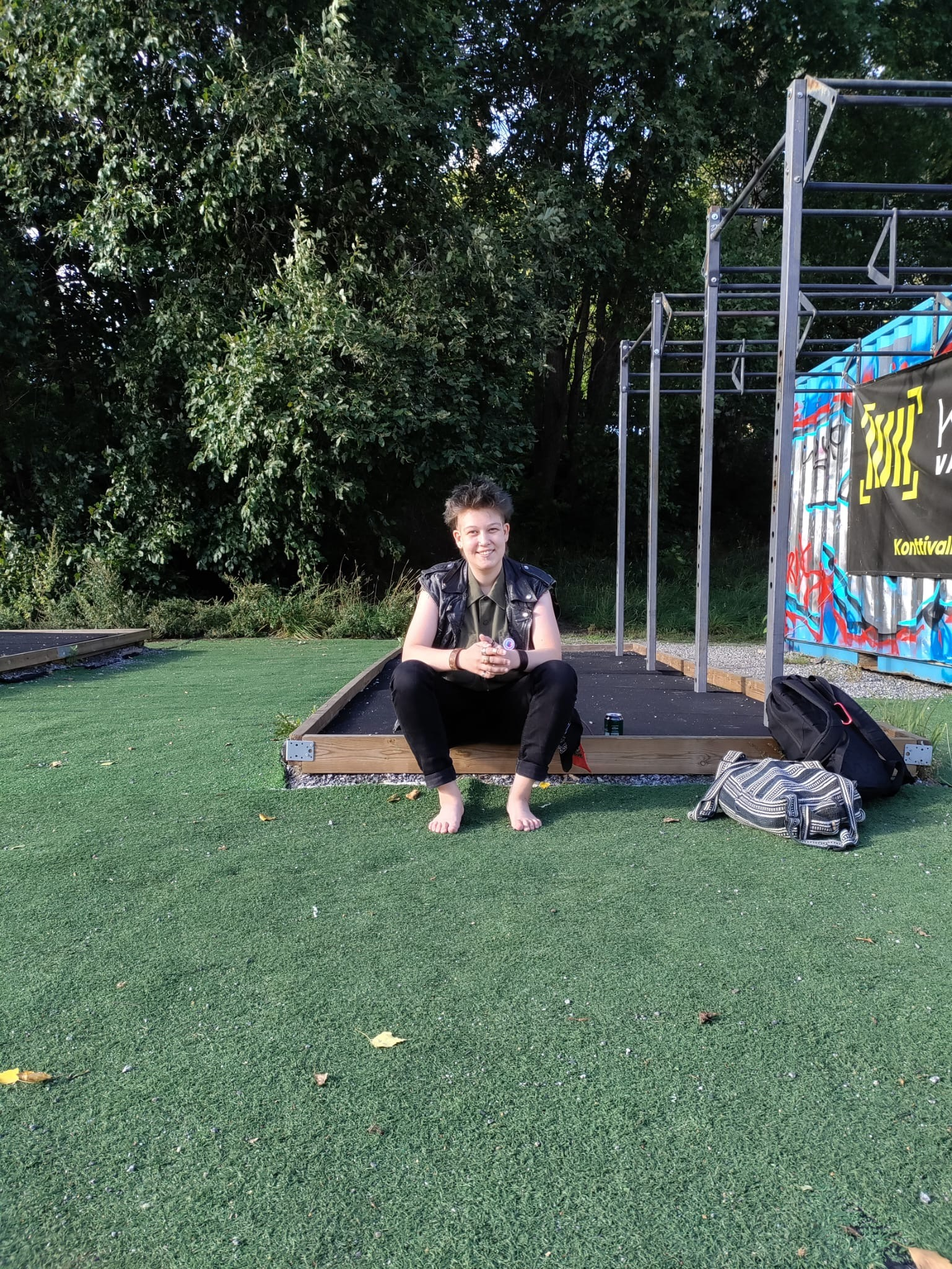
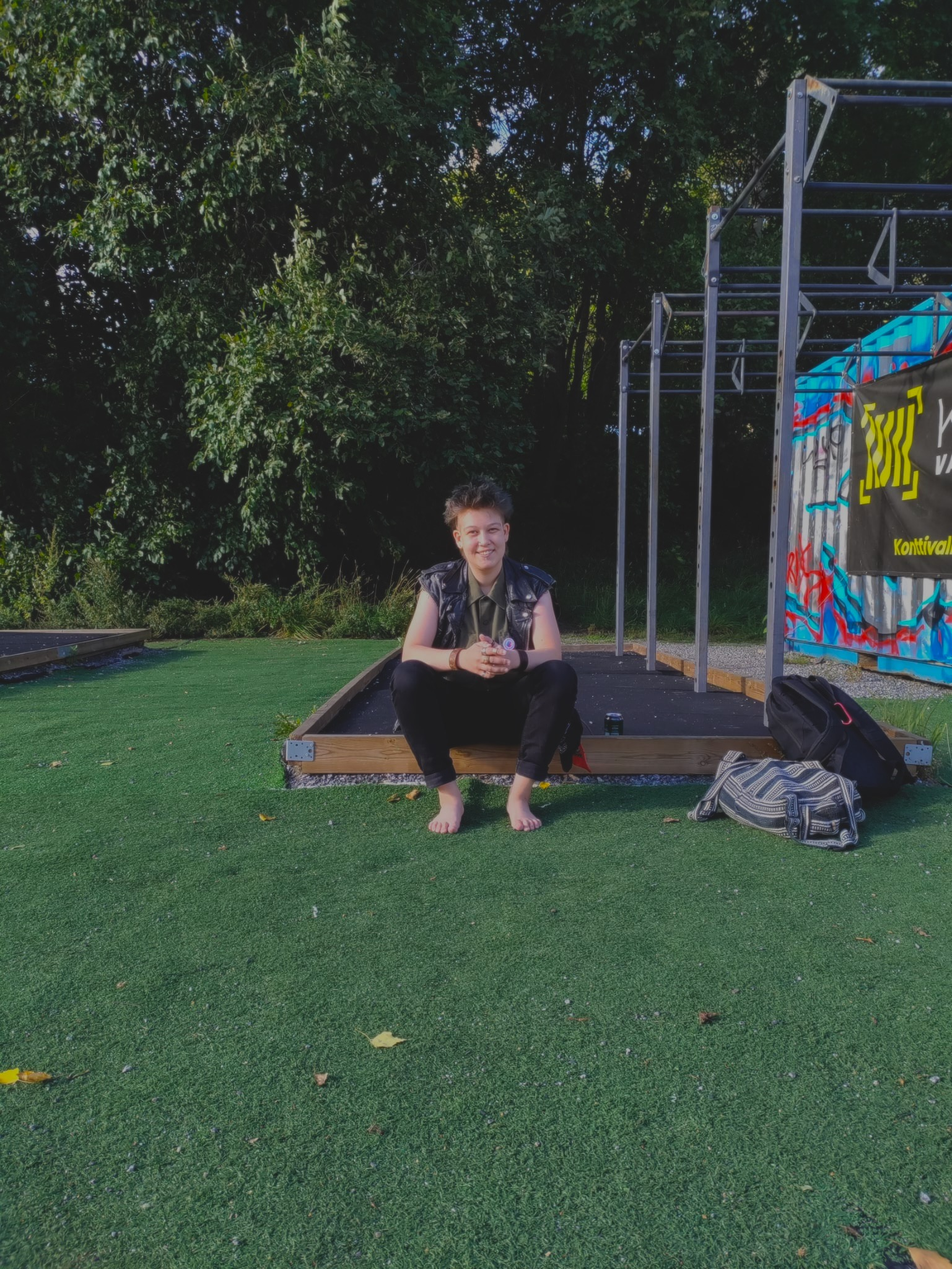
korjauksia

diff --git a/index.html b/index.html
@@ -10,25 +10,27 @@
     </head>
     <body>
         <div class="valikko">
-            <nav class="v-center h-right">
+            <nav>
                 <a href="index.html">Etusivu</a>
                 <a href="opinnot.html">Opinnot</a>
                 <a href="projektit.html">Projektit</a>
+                <a href="cv.html">CV</a>
             </nav>
         </div>
-        <main>
-            <div class="container-sm">
-                <h1>Tervetuloa Valon kotisivuille!</h1>
-                <h2>Esittely</h2>
-                <div class="row">
-                    <div class="col-md-8">
-                        <p>Moi! Olen Valo. Asun Tampereella ja opiskelen ohjelmistokehittäjäksi.</p>
-                        <p>Sähköposti: valo.riutta@gmail.com</p>
-                    </div>
-                    <div class="col-md-4"><img src="img/b34f5e22-7217-4708-b101-44a33cbb6e4f.jpeg" class="img-fluid" alt="valo"></div>
-                </div>
-            </div>
-        </main>
+        <div id="sisältö">
+            <main>
+                            <h1>Tervetuloa Valon kotisivuille!</h1>
+                            <h2>Esittely</h2>
+                            <p>Moi! Olen Valo. Asun Tampereella ja opiskelen ohjelmistokehittäjäksi.</p>
+                            <p>Sähköposti: valo.riutta@gmail.com</p>
+                            <ul>
+                                <li>Harrastan lukemista ja kirjallisuutta.</li>
+                                <li>Nautin paljon musiikista ja ulkoilusta.</li>
+                                <li>Teen pitkiä kävelyretkiä ja kesällä pyöräilen.</li>
+                                <li>Vietän aikaa ystävien ja perheen kanssa.</li>
+                            </ul>
+            </main>
+        </div>
         <script src="https://cdn.jsdelivr.net/npm/bootstrap@5.3.3/dist/js/bootstrap.bundle.min.js" integrity="sha384-YvpcrYf0tY3lHB60NNkmXc5s9fDVZLESaAA55NDzOxhy9GkcIdslK1eN7N6jIeHz" crossorigin="anonymous"></script>
     </body>
 </html>

diff --git a/opinnot.html b/opinnot.html
@@ -14,15 +14,18 @@
                 <a href="index.html">Etusivu</a>
                 <a href="opinnot.html">Opinnot</a>
                 <a href="projektit.html">Projektit</a>
+                <a href="cv.html">CV</a>
             </nav>
         </div>
-        <main>
-            <div class="container-sm">
-                <h2>Opiskelu</h2>
-                <p>Opiskelen <a href="http://www.esedu.fi" target="_blank">Etelä-Savon ammattiopistossa</a> tieto- ja viestintätekniikan perustutkintoa. Valmistun ohjelmistokehittäjäksi. </p>
-                <p>Aikaisemmin olen opiskellut tekstiili- ja muotialaa. Ylioppilaaksi olen valmistunut vuonna 2021 Tampereella Hatanpään lukiosta.</p>
-            </div>
-        </main>
+        <div id="sisältö">
+            <main>
+                <div class="container-sm">
+                    <h2>Opiskelu</h2>
+                    <p>Opiskelen <a href="http://www.esedu.fi" target="_blank">Etelä-Savon ammattiopistossa</a> tieto- ja viestintätekniikan perustutkintoa. Valmistun ohjelmistokehittäjäksi. </p>
+                    <p>Aikaisemmin olen opiskellut tekstiili- ja muotialaa. Ylioppilaaksi olen valmistunut vuonna 2021 Tampereella Hatanpään lukiosta.</p>
+                </div>
+            </main>
+        </div>
         <script src="https://cdn.jsdelivr.net/npm/bootstrap@5.3.3/dist/js/bootstrap.bundle.min.js" integrity="sha384-YvpcrYf0tY3lHB60NNkmXc5s9fDVZLESaAA55NDzOxhy9GkcIdslK1eN7N6jIeHz" crossorigin="anonymous"></script>
     </body>
 </html>

diff --git a/css/tyylit.css b/css/tyylit.css
@@ -1,0 +1,56 @@
+* {
+    box-sizing: border-box;
+}
+
+/* The sidenav */
+.valikko {
+    height: 100%;
+    width: 450px;
+    position: fixed;
+    z-index: 1;
+    top: 0;
+    left: 0;
+    overflow-x: hidden;
+    display: flex;
+    justify-content: center;
+    align-items: center;
+  }
+
+  .valikko a {
+    padding: 8px 8px 8px 32px;
+    text-decoration: none;
+    font-size: 80px;
+    color: #818181;
+    display: block;
+    transition: 0.3s;
+    font-family: Copperplate, Papyrus, fantasy;
+  }
+
+  .valikko a:hover {
+    font-size: 85px;
+    font-style: italic;
+  }
+
+  /* Page content */
+  #sisältö {
+    display: flex;
+    background-color: #8181819f;
+    position: fixed;
+    top: 25%;
+    right: 0;
+    padding: 20px;
+    width: 400px;
+    margin-right: 10%;
+    border-radius: 10px;
+  }
+
+
+body {
+    background-color: #e3ebb7b9;
+    background-image: url(/img/b34f5e22-7217-4708-b101-44a33cbb6e4f.jpeg);
+    background-size:cover;
+    background-position: center;
+    background-repeat: no-repeat;
+    background-attachment: fixed;
+}
+

diff --git a/css/mobiili.css b/css/mobiili.css
@@ -1,0 +1,47 @@
+@media only screen and (max-width: 1000px) {
+    
+    .valikko {
+        display: inline-block;
+        align-items: flex-start;
+        position: static;
+        text-align: center;
+        width: 100%;
+    }
+
+    .valikko a {
+        padding: 8px 8px 8px 8px;
+    }
+
+    #sisältö {
+        width: 600px;
+        top: auto;
+        margin: auto;
+        right: 0;
+        left: 0;
+        margin-bottom: 10px;
+        position: relative;
+    }
+}
+
+@media only screen and (max-width: 420px) {
+    .valikko a {
+        font-size: 40px;
+    }
+
+    .valikko a:hover {
+        font-size: 45px;
+    }
+    #sisältö {
+        width: auto;
+        margin: 10px;
+        margin-bottom: 10px;
+        bottom: 0;
+    }
+}
+
+@media only screen and (max-width: 620px) {
+    #sisältö {
+        width: auto;
+        margin: 10px;
+    }
+}

diff --git a/cv.html b/cv.html
@@ -10,7 +10,7 @@
     </head>
     <body>
         <div class="valikko">
-            <nav class="v-center h-right">
+            <nav>
                 <a href="index.html">Etusivu</a>
                 <a href="opinnot.html">Opinnot</a>
                 <a href="projektit.html">Projektit</a>
@@ -19,9 +19,7 @@
         </div>
         <div id="sisältö">
             <main>
-                <div class="container-sm">
-                    <p>Tänne tulee jatkossa tekemäni valmiit projektit</p>
-                </div>
+                <p>Tänne tulee CV</p>
             </main>
         </div>
         <script src="https://cdn.jsdelivr.net/npm/bootstrap@5.3.3/dist/js/bootstrap.bundle.min.js" integrity="sha384-YvpcrYf0tY3lHB60NNkmXc5s9fDVZLESaAA55NDzOxhy9GkcIdslK1eN7N6jIeHz" crossorigin="anonymous"></script>
